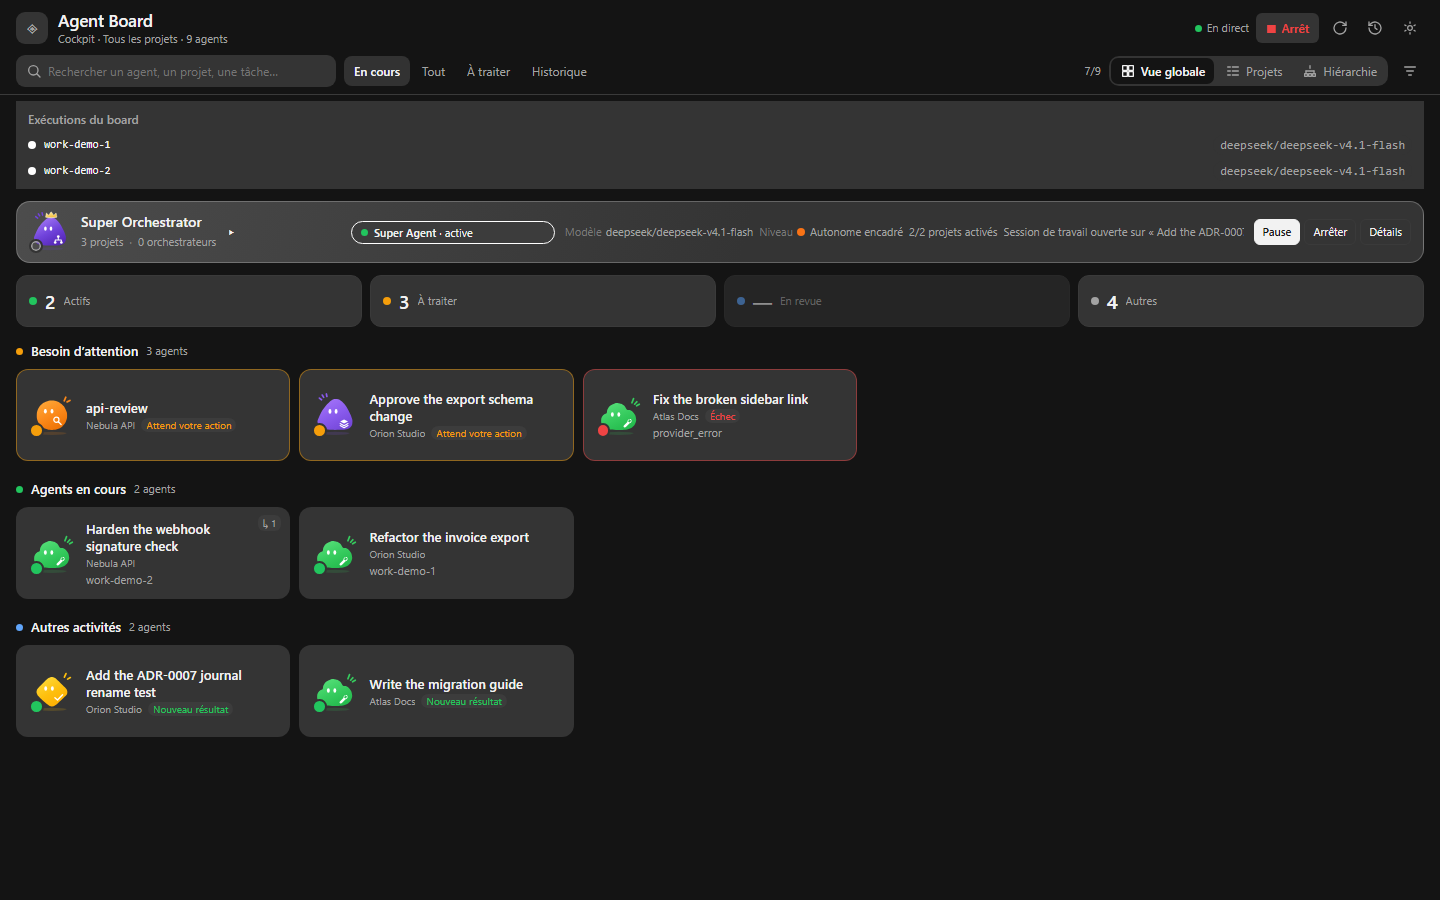
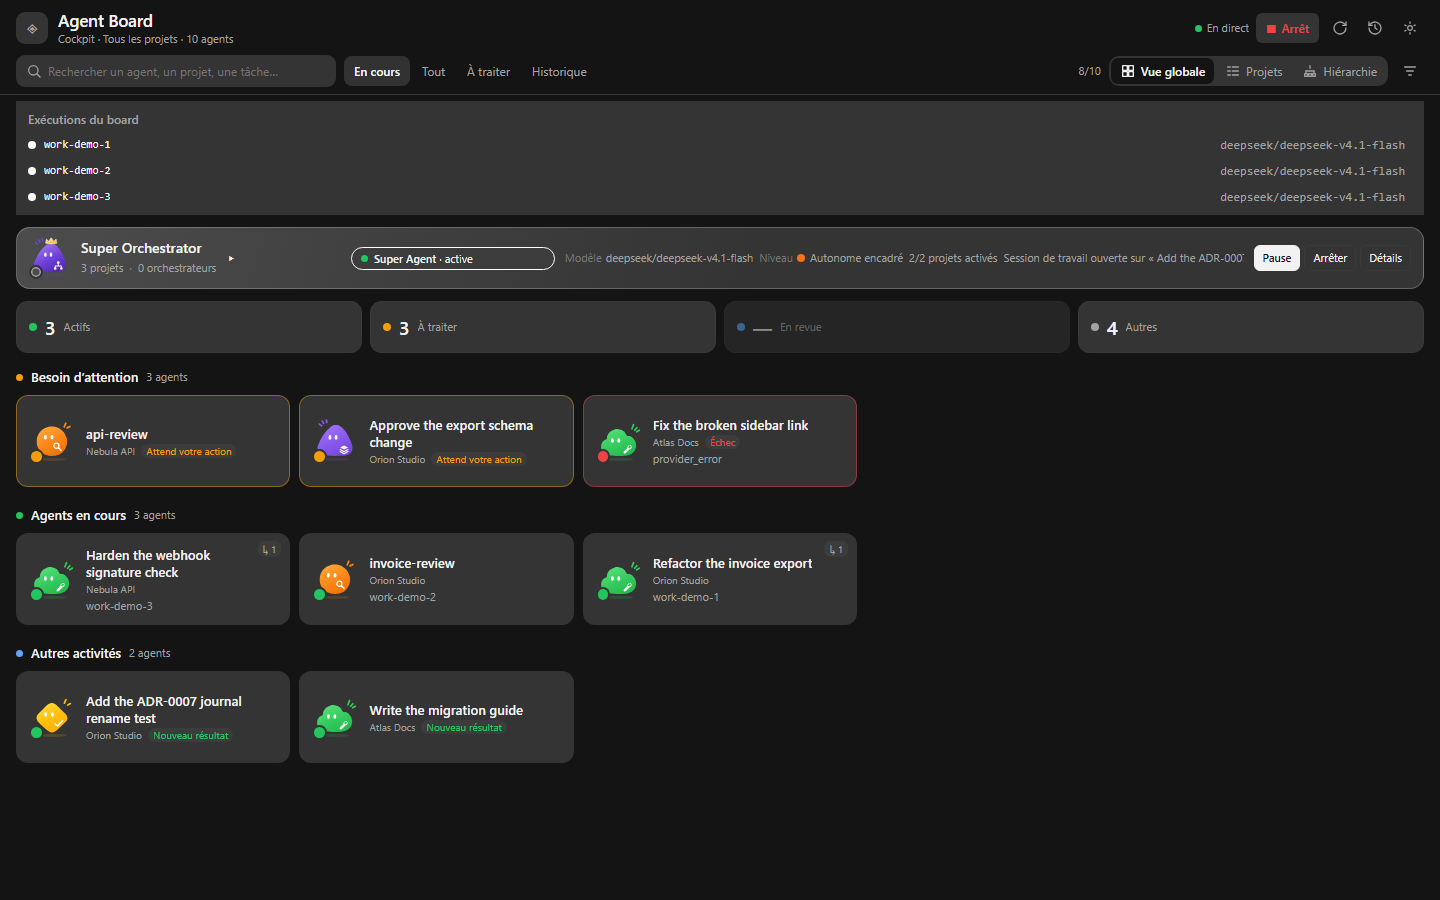
docs(demo): add the Projects view capture with sub-agents visibly linked
- third fictional capture (1440x1024): project groups, 8 branches, the two SVG
  link layers that connect each parent to its sub-agent
- the capture script seeds the view explicitly and uses one browser profile per
  (size, view), so a reused profile can never leak the previous view
- audit now reports project groups / branches / kids / link layers

Changed region(s): [[0.0, 0.1867, 1.0, 0.8711], [0.125, 0.0311, 0.1562, 0.0622]]

diff --git a/README.md b/README.md
@@ -71,6 +71,11 @@ réelles ont été retirées du dépôt **et de son historique** — voir
 
 ![Cockpit sombre, 1440×900, projets fictifs](docs/demo/demo-dark-desktop.png)
 
+Vue **Projets** (1440×1024) : les sous-agents sont reliés à leur parent par les
+connecteurs de l'arbre — deux branches visibles sur des projets factices.
+
+![Vue Projets avec sous-agents reliés, 1440×1024, projets fictifs](docs/demo/demo-dark-projects-desktop.png)
+
 ![Cockpit sombre, 390×844, projets fictifs](docs/demo/demo-dark-mobile.png)
 
 ## Branches

diff --git a/docs/EVIDENCE-SCREENSHOTS.md b/docs/EVIDENCE-SCREENSHOTS.md
@@ -22,6 +22,7 @@ valables, les PNG ne sont simplement plus publiés.
 | Fichier | Contenu |
 |---|---|
 | `docs/demo/demo-dark-desktop.png` | cockpit sombre, 1440×900, **données fictives** |
+| `docs/demo/demo-dark-projects-desktop.png` | vue **Projets**, 1440×1024 : groupes de projets et **sous-agents reliés** à leur parent (connecteurs SVG), **données fictives** |
 | `docs/demo/demo-dark-mobile.png` | cockpit sombre, 390×844, **données fictives** |
 
 Ces deux images sont rendues par **le vrai bundle client du plugin**
